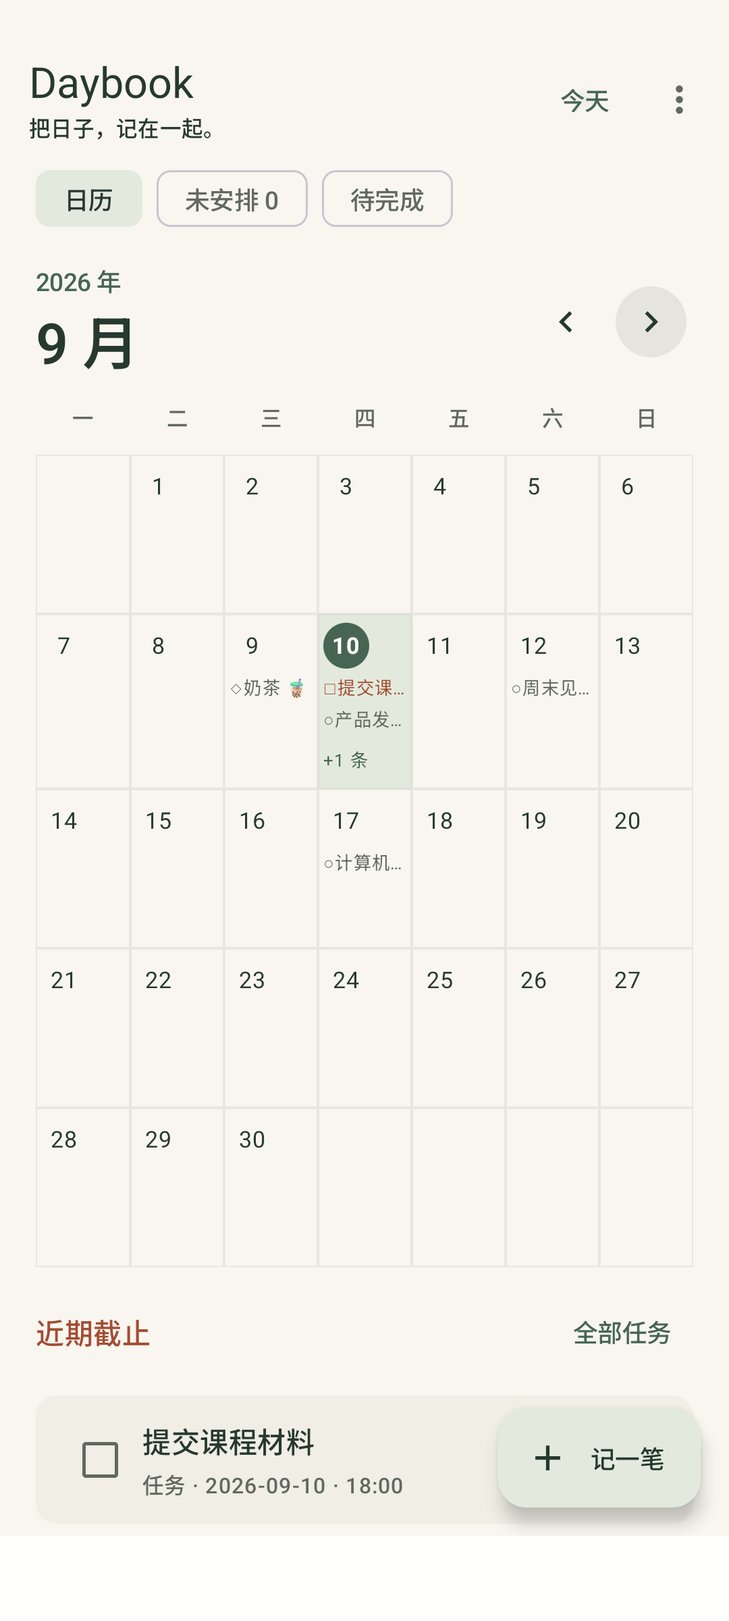
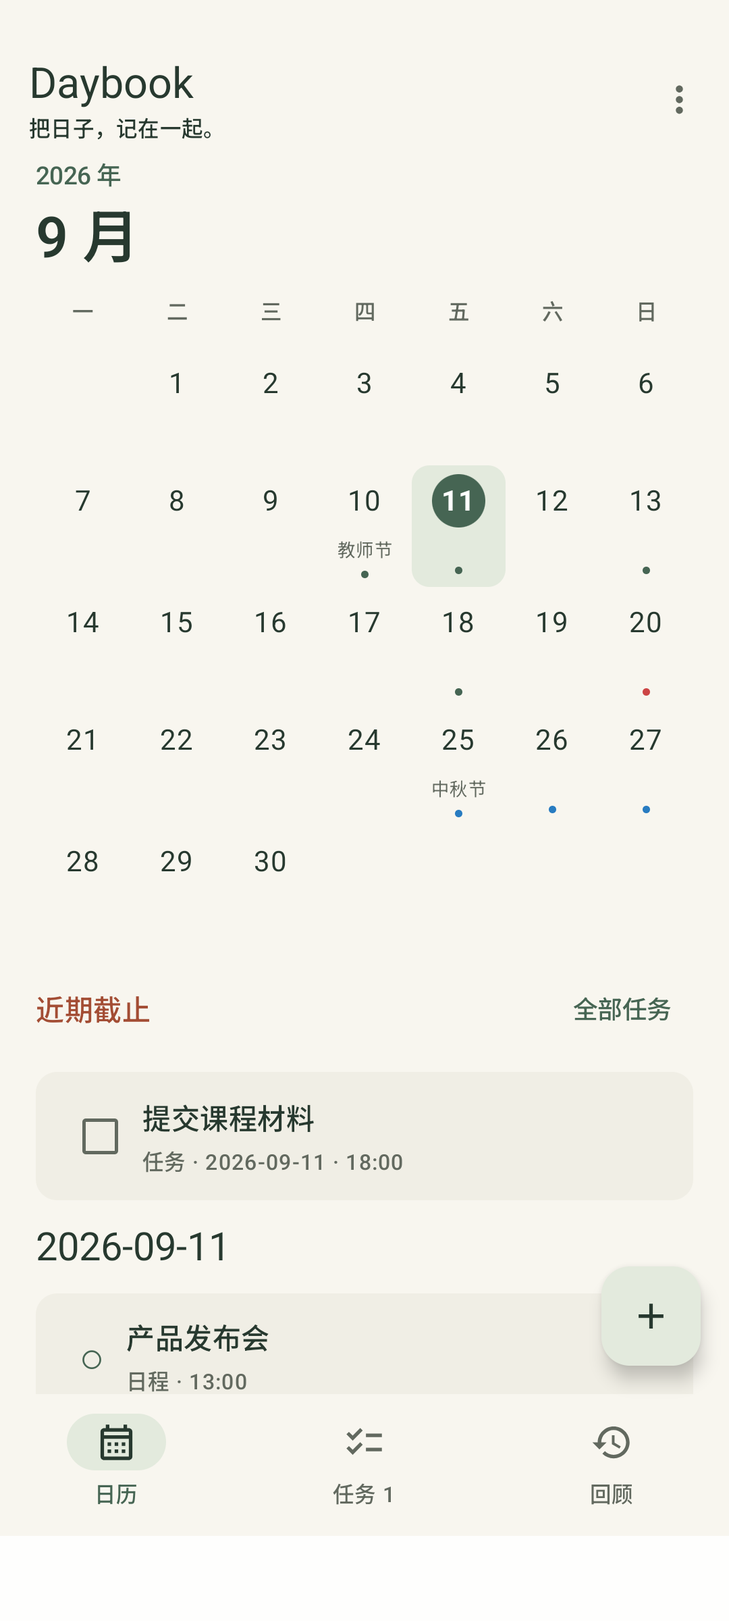
chore: 准备 v0.3.0 交付并更新截图与验收记录
完成真实 v0.2 覆盖升级和 Release 新安装验证，记录已验证的后台通知与顶部悬浮。README 图片与使用说明同步；保留真机声音、振动及静音模式待验证项。

diff --git a/app/src/androidTest/java/dev/lukino/daybook/UpgradeContinuityTest.kt b/app/src/androidTest/java/dev/lukino/daybook/UpgradeContinuityTest.kt
@@ -1,5 +1,8 @@
 package dev.lukino.daybook
 
+import android.app.NotificationManager
+import dev.lukino.daybook.reminder.ReminderCoordinator
+import java.io.File
 import androidx.test.core.app.ApplicationProvider
 import androidx.test.platform.app.InstrumentationRegistry
 import dev.lukino.daybook.data.*
@@ -17,10 +20,32 @@ class UpgradeContinuityTest {
         val fixture = Entry(id = "00000000-0000-0000-0000-000000000101", kind = EntryKind.TASK,
             title = "覆盖安装验收样例", note = "仅测试使用，验证后删除", date = "2099-12-31", time = "18:30",
             completed = true, createdAt = 1000, updatedAt = 2000)
-        if (mode == "seed") app.repository.save(fixture)
-        else {
-            assertEquals(fixture, app.repository.all().single { it.id == fixture.id })
-            app.repository.delete(fixture.id)
+        val args = InstrumentationRegistry.getArguments()
+        val extended = args.getString("daybookUpgradeFields") == "extended"
+        args.getString("expectedVersion")?.let { expected ->
+            assertEquals(expected, app.packageManager.getPackageInfo(app.packageName, 0).versionName)
+        }
+        val samples = if (extended) listOf(fixture.copy(tags = listOf("学习", "验收"),
+            reminderAt = "2099-12-30T09:00", reminderDeliveredFor = "2099-12-30T09:00"),
+            Entry(id = "00000000-0000-0000-0000-000000000102", kind = EntryKind.EVENT,
+                title = "旧版日程验收样例", date = "2099-12-31", tags = listOf("验收"),
+                createdAt = 3000, updatedAt = 4000)) else listOf(fixture)
+        val snapshot = File(app.filesDir, "upgrade-channel-test.txt")
+        fun channelSettings(): String {
+            val channel = app.getSystemService(NotificationManager::class.java).getNotificationChannel(ReminderCoordinator.CHANNEL)
+            return listOf(channel.id, channel.importance, channel.sound, channel.shouldVibrate(),
+                channel.vibrationPattern?.joinToString(",")).joinToString("|")
+        }
+        if (mode == "seed") {
+            samples.forEach { app.repository.save(it) }
+            if (extended) snapshot.writeText(channelSettings())
+        } else {
+            samples.forEach { assertEquals(it, app.repository.all().single { actual -> actual.id == it.id }) }
+            if (extended) {
+                assertEquals(snapshot.readText(), channelSettings())
+                snapshot.delete()
+            }
+            samples.forEach { app.repository.delete(it.id) }
         }
     }
 }

diff --git a/docs/USAGE.md b/docs/USAGE.md
@@ -2,52 +2,54 @@
 
 ## 记一笔
 
-点日历中的日期，再点“记一笔”。默认类型是安排；标题是唯一必填文字，其余按需填写。
+点日历中的日期，再点右下角「+」。默认类型是日程，自动填入选中日期；标题必填，其余按需填写。
 
-- 安排：课程、见面、发布会、游戏更新。日期必填，时间可以未定。
-- 任务：需要交付或完成的事。日期表示截止日，可勾选完成；没有日期时进入“无截止”。
-- 记录：已经发生的生活片段，例如喝奶茶。无需打勾。
+- 日程：课程、见面、发布会、游戏更新。日期必填，时间可以未定。
+- 任务：需要完成的事。日期表示截止日；可点日期旁的叉号清除日期和时间。
+- 记录：已经发生的生活片段，例如喝奶茶。日期必填，无需打勾。
 
-仅设截止日的任务，整天都不算逾期；第二天开始才算。设置具体时间的任务，到该时间后即算逾期。完成后仍保留在原来的日期，可取消完成。
+仅设截止日的任务，当天结束后才算逾期；设置具体时间的任务，到该时间后即算逾期。完成后仍可从日历或回顾找到，并恢复为未完成。
 
-## 查看与修改
+## 日历与任务
 
-月份左右箭头切换月份，“今天”回到当前日期。月历文字过多时显示额外条数，点日期查看完整列表。
+左右滑动日历切换月份，点日期查看当天完整内容。选到其他日期或月份时，右上角出现「今天」，点击返回今天；旁边的小字表示选中日期距今天多少天。
 
-“近期截止”显示逾期和今天起七天内的未完成任务。“待完成”可看全部未完成任务，“无截止”可看无截止日期的任务（包括已完成项），旁边数字是该列表总数。“待完成”旁边数字只统计未完成任务，与日历日期无关。
+日期下的绿点表示有个人事项；蓝点表示放假，红点表示调休上班。节日本日显示名称，选中日期可查看完整说明。官方放假调休数据与清明名称内置 2025/2026 年中国大陆资料，后续随安装包更新；未覆盖年份不推测放假或补班。常用公历、农历节日由日期规则显示。
 
-点记录编辑，保存后更新。删除需确认，删除后底部提示中的“撤销”可短时恢复；提示消失后需依赖此前备份恢复。
+底部固定「日历」「任务」「回顾」。任务旁数字是全部未完成任务数，与选中日期无关；列表上方是有截止日期的任务，下方是无截止日期的任务。「近期截止」显示逾期和今天起七天内的未完成任务。
 
-## 备份与恢复
-
-使用菜单中的导出备份，将 JSON 保存到手机文件夹或自行选择的文件服务。文件包含完整日历内容，请妥善保存。
-
-恢复时先选文件，应用校验后显示记录数量。只有确认替换后才更改当前数据；零条记录的备份也会清空当前列表，因此务必看清预览。
-
-每次替换前会保留最近一份本地快照。“恢复替换前快照”可预览并恢复；恢复快照本身也会保存当时的现有数据，支持退回最近一次替换。该快照仍在本机，不等于外部备份。
-
-卸载会清除本地数据库与快照。升级请直接安装同签名的新 APK，不要先卸载。
-
-## 设置提醒
-
-编辑安排或任务时打开“提醒”，选择提醒日期和时间。提醒与发生/截止时间独立：例如晚上截止的任务可以下午提醒，修改截止时间不会自动移动提醒。没有截止日期的任务也可以设置一个提醒时间。
-
-在编辑页或右上角“提醒设置”中开启通知和准时提醒权限。两者齐全才会调度；没有权限时记录仍会保存，首页会显示尚未启用。默认不开启任何提醒。
-
-点击通知直接打开记录。删除、完成任务、清除或修改提醒后会重新核对调度，旧通知会取消；相同提醒已发出后不重复。重新设置提醒可再次启用。系统重启、更新、时区/时间变化或返回 App 时也会核对。
-
-过去 24 小时内未发出的提醒可能补发，并显示“补发提醒”；更旧的提醒不补发。恢复旧备份后也遵循此规则。手机设置中强行停止 App 后，需重新打开才能恢复调度；品牌省电策略可能影响通知。
+点记录编辑，保存后更新。删除需确认，删除后可在底部提示中短时撤销。
 
 ## 标签与回顾
 
-编辑时输入标签，用逗号分隔，也可以点选已有标签。最多 10 个，每个最多 30 字；自动去掉首尾空格和重复项。
+类型决定记录的行为：日程、任务、记录。标签表示主题，例如恋爱、学习、旅行，可跨类型使用。编辑时用逗号分隔标签，也可以点选已有标签；最多 10 个，每个最多 30 字。
 
-“回顾”默认只看生活记录；可切换“全部类型”。点“恋爱”等标签会列出匹配内容，搜索框同时匹配标题或正文。标签与搜索一起生效，清除筛选可回到完整列表。结果按日期倒序，无日期任务排在最后。
+回顾默认全部类型、全部标签、全时间段。可以选择类型、标签，搜索标题/正文，或设置日期范围；结束日期默认今天，起止两天都计入范围。无日期任务仅在全时间段中出现。
 
-点卡片上的标签可直接打开相关内容。在回顾中新建默认是生活记录，编辑保存后保留当前筛选条件。正文可写 20000 字；目前不支持照片。
+点「筛选」后才显示或更新结果。没有设置条件时，会先询问是否回顾所有内容。修改筛选条件时，原结果保留到下次点击筛选。结果按日期倒序，无日期任务排最后。
 
-## 本阶段限制
+点卡片标签会进入回顾并选中该标签，再点击筛选。回顾中新建默认是记录，编辑后保留筛选条件。正文支持 20000 字，目前没有照片。
 
-没有自动同步，备份恢复是整份替换，不会合并记录。当前不支持重复日程、生日自动循环、照片、自定义背景和自然语言识别。提醒跟随本地钟表时间，跨时区不会保持原时区的绝对时刻。
+## 设置提醒
 
-v0.2.0 可恢复 v0.1.0 的旧备份；新版备份增加标签和提醒字段，不能交给旧版恢复。
+编辑日程或任务时打开「提醒」，选择提醒日期和时间。提醒时间独立设置，修改发生或截止日期不会自动移动提醒；无日期任务也可以设置提醒。
+
+点编辑页的「提醒设置」，或右上角菜单中的同名入口，进入独立设置页。需要同时开启通知与准时提醒。左上角返回编辑页时，未保存的输入会保留。默认不为新记录开启提醒。
+
+新安装默认使用系统通知声、振动和高重要性通知。旧版覆盖升级保留原通知渠道设置：如果振动或声音关闭，请点「声音、振动与悬浮设置」在系统中开启。静音时是否振动、是否悬浮，由系统模式、渠道设置与厂商策略共同决定；App 不绕过静音或勿扰设置。
+
+点击通知可打开对应记录。删除、完成任务、清除或修改提醒后会自动核对调度，旧通知会取消；相同提醒已发出后不重复。系统重启、更新、时区/时间变化及返回 App 时也会自动核对，无需手动重新检查。
+
+过去 24 小时内未发出的提醒可能补发，并注明补发；更旧的不补发。系统强行停止 App 后需重新打开，品牌省电策略也可能影响送达。
+
+## 备份与恢复
+
+通过右上角菜单导出 JSON 到手机文件夹或自行选择的文件服务。备份包含完整记录，请妥善保存。
+
+恢复时先选文件，完整校验后显示数量。确认后保存本地快照，再替换当前全部内容；空备份也会清空列表，不合并记录。菜单中的「恢复替换前快照」可退回最近一次替换前的数据；快照仍在本机，不能代替外部备份。
+
+升级请直接安装同签名的新 APK，不要先卸载。卸载会清除数据库和快照。
+
+## 当前范围
+
+v0.3.0 沿用 v0.2.0 的数据库与 JSON 格式，可恢复 v0.1.0/v0.2.0 备份。没有自动同步、重复日程、生日循环、照片、自定义背景或 AI 录入；图文教程与首次引导留后续。提醒跟随本地钟表时间，跨时区不保持原时区的绝对时刻。

diff --git a/CODEX_HANDOFF.md b/CODEX_HANDOFF.md
@@ -1,15 +1,13 @@
 # Daybook 恢复记录
 
-- 当前目标：实施已确认的 v0.3.0 界面、筛选、节假日及提醒改动，方案见 docs/V0.3-PLAN.md。
-- 授权：用户 2026-09-11 确认节假日 APK 内置、保留现有通知渠道，可以开始。无需重复询问已确认方案。
-- 起点：v0.2.0 已发布，main 最近稳定 bcb27ff；原有两处未提交文件是反馈记录，已合并到当前工作。
-- 当前阶段 A：底部三入口、紧凑日历/左右滑动、任务分区、“日程”名称及叉号清除任务日期、回顾显式筛选已实现并验证。代码提交 3a9281911f4dacebf8496a61bceda1c3264fa471，已推送并核对远程 main。
-- 已验证：30 项 JVM 单测通过；15 项常规仪器用例通过（首轮日历标记定位失败，work/v03-calendar-test.log 复测通过）；3 项条件用例跳过。Debug/Lint 通过，outputs/v03-calendar-draft.png 已目视检查。
-- 阶段 B 已完成：内置官方 2025/2026 调休表、常用公历/农历节日、三色日历标记与日期详情。资料见 docs/HOLIDAY-SOURCES.md。32 项 JVM 单测、3 项针对性模拟器用例、Debug/Lint 通过；B 提交 036408a 已推送核对。
-- 阶段 C 功能已完成：独立提醒页、既有渠道保留、新渠道声音/振动/高重要性、删除冗余与手动按钮，自动核对保留。32 项单测、19 项常规模拟器、拒绝通知专项通过；150% 字体 3 项通过（回顾点击标题定位修正后复测）。
-- 剩余：最终截图、文档、同签名升级、v0.3.0 发布。README/USAGE 已开始同步，尚未提交；版本号仍是 0.2.0。当前日志 work/v03-regression-device.log、work/v03-denied-device.log、work/v03-large-font-device.log 和 work/v03-large-font-retest.log。模拟器已恢复字体 1.0。
-- 数据：数据库与备份结构未改变，EVENT 仅中文显示名变为日程，不改稳定标识。禁止清理用户数据或提交真实记录/签名材料。
-- 重要路径：app/；docs/V0.3-PLAN.md；work/v03-build.log、work/v03-tests.log；既有工具 work/；旧版 APK outputs/daybook-v0.2.0.apk；签名仍在忽略的本地文件。
-- 额度：2026-09-11 恢复时五小时剩余 99%、周剩余 100%，继续正常执行。不重复已通过的 A 验证。
-- 构建环境：JAVA_HOME=$PWD/work/tooling/jdk-21.0.12.1.jdk/Contents/Home；GRADLE_USER_HOME=$PWD/work/gradle-user；ANDROID_USER_HOME=$PWD/work/android-user；ANDROID_HOME=$PWD/work/android-sdk。GitHub 操作可用 python3 work/github_cli.py；签名凭据不得输出。
-- 已知限制：真实手机通知声音/振动/悬浮仍待验证；现有渠道声音振动设置须由用户在系统管理。教程不在本版。
+- 当前目标：用户批准的 v0.3.0 改动已完成工程验收，准备提交版本并发布 GitHub Release。
+- 已完成：A 固定底部导航、紧凑滑动日历、任务分区、日程命名与日期规则、显式回顾筛选（3a92819）；B 内置官方 2025/2026 假期/补班及常用节日（036408a）；C 独立提醒设置页、既有渠道保留、新渠道系统声/振动/高重要性、删除冗余与手动按钮（1382f83）。均已推送 main。
+- 版本：0.3.0 / code 3，Room schema 3 / JSON 3 不变，同签名沿用旧版本。没有数据库破坏性迁移。
+- 已验证：32 项 JVM 单测，19 项常规模拟器用例；权限拒绝、150% 字体、真实 v0.2→v0.3 覆盖升级通过。Debug/Release/Lint 通过。Release 全新安装 UI 与渠道配置通过；后台进程退出后实际通知与顶部悬浮通过，已发送状态核对通过。
+- 失败记录：大字体回顾测试点击合并卡片中心触发了标签，改为点击标题本身后复测通过。详情见 docs/TESTING.md，未将失败或跳过记作通过。
+- 交付物：outputs/daybook-v0.3.0.apk、outputs/SHA256SUMS-v0.3.0.txt；SHA-256 1fdd6fedb3fb99ccb720d3f03eaf3fda94bad763eef8748edab0db050e875fa1。README 三张截图、USAGE、BUILD、TESTING、BACKLOG 和发布说明已同步。
+- 待做：提交交付文件，核对 GitHub CI；创建 v0.3.0 标签、上传 APK 和校验文件，核对远程 digest；最后保存发布结果、停止专用模拟器。
+- 证据：work/v03-reminder-build.log、work/v03-regression-device.log、work/v03-large-font-retest.log、work/v03-release-build.log、work/v03-upgrade.log、work/v03-release-ui.log、work/v03-lifecycle-*.log。截图 docs/screenshots/；实际悬浮 outputs/v03-heads-up.png。
+- 工具：JAVA_HOME=$PWD/work/tooling/jdk-21.0.12.1.jdk/Contents/Home；GRADLE_USER_HOME=$PWD/work/gradle-user；ANDROID_USER_HOME=$PWD/work/android-user；ANDROID_HOME=$PWD/work/android-sdk。GitHub 使用 python3 work/github_cli.py。work/verify_upgrade_v03.py 已完成升级验证，不需重跑。
+- 重要限制：官方调休表和清明仅覆盖 2025/2026；真机声音/振动/静音与厂商省电策略未验证。教程、生日循环、照片、背景和同步留后续，新增宏观方案先请用户确认。
+- 数据安全：签名仍在忽略的本地配置，禁止输出凭据。不要提交真实记录、签名、构建产物；只操作专用模拟器 Daybook_API_35，不清理用户手机数据。

diff --git a/README.md b/README.md
@@ -1,37 +1,40 @@
 # Daybook
 
-一款离线安卓个人日历。像纸质日历一样，统一记录安排、截止任务和生活片段。
+一款离线安卓个人日历。像纸质日历一样，统一记录日程、截止任务和生活片段。
 
 ## 当前功能
 
 - Kotlin / Jetpack Compose / Room，Android 8.0 及以上。
-- 月历与当天列表、三类记录、未安排任务、近期与逾期截止提示。
+- 紧凑月历、左右滑动换月、三类记录、任务分区与数量、近期与逾期截止提示。
 - 不联网，不要求账号；通过系统文件选择器导出和恢复 JSON 备份。
-- 安排/任务可设置独立通知提醒；生活记录支持多标签、回顾与标题/正文搜索。
+- 日程/任务可设置独立通知提醒；标签、类型、时间段与标题/正文组合筛选。
+- 内置 2025/2026 放假调休及常用节日，蓝点放假、红点补班、绿点个人事项。
 - 手机竖屏界面；暂不包含自动同步、AI 录入、重复日程和照片。
 
 ## 安装与上手
 
-[下载 v0.2.0 试用版](https://github.com/lukino0737/daybook/releases/tag/v0.2.0) · [使用说明](docs/USAGE.md) · [构建方法](docs/BUILD.md)
+[下载 v0.3.0 试用版](https://github.com/lukino0737/daybook/releases/tag/v0.3.0) · [使用说明](docs/USAGE.md) · [构建方法](docs/BUILD.md)
 
-将 APK 下载到 Android 8.0+ 手机安装。旧版用户先导出备份，再直接覆盖安装，勿先卸载。首次打开没有预填数据。点日期再点“记一笔”；右上角菜单可以导出或恢复备份。
+将 APK 下载到 Android 8.0+ 手机安装。旧版用户先导出备份，再直接覆盖安装，勿先卸载。首次打开没有预填数据。点日期再点右下角「+」；右上角菜单可以导出或恢复备份。
 
 <img src="docs/screenshots/calendar.png" alt="Daybook 月历，展示虚构测试数据" width="320" />
 
 <img src="docs/screenshots/review.png" alt="Daybook 按标签回顾，展示虚构测试数据" width="320" />
 
-截图中的内容是测试样例，不随安装包提供。
+<img src="docs/screenshots/reminder-settings.png" alt="Daybook 独立提醒设置页" width="320" />
+
+截图中的个人事项是虚构测试样例，不随安装包提供。节假日数据随安装包内置。
 
 ## 验证与维护
 
-第二阶段的自动测试、模拟器检查和升级验证分别记录在 [验收报告](docs/TESTING.md)。提醒需要通知和准时提醒权限；各品牌手机的后台表现仍需真机试用。
+各版本的自动测试、模拟器检查和升级验证分别记录在 [验收报告](docs/TESTING.md)。提醒需要通知和准时提醒权限；各品牌手机的后台表现仍需真机试用。
 
-每个里程碑都有独立提交。开发进度见 [开发日志](docs/DEVELOPMENT.md)，详细证据与限制见 [验收报告](docs/TESTING.md)，范围见 [第一阶段计划](docs/PLAN.md) 和 [第二阶段计划](docs/PHASE2.md)。
+每个里程碑都有独立提交。开发进度见 [开发日志](docs/DEVELOPMENT.md)，详细证据与限制见 [验收报告](docs/TESTING.md)，范围见 [第一阶段计划](docs/PLAN.md) 、[第二阶段计划](docs/PHASE2.md) 和 [v0.3 改进方案](docs/V0.3-PLAN.md)。
 
 这是一个持续维护的 AI 辅助开发项目，可以从 [代码阅读与练习路线](docs/LEARNING.md) 开始。
 
 ## 数据
 
-安排和生活记录不会逾期。任务的日期表示截止日期；没有具体时间时，截止日结束之后才算逾期。无日期任务进入“未安排”。
+日程和生活记录不会逾期。任务的日期表示截止日期；没有具体时间时，截止日结束之后才算逾期。无日期任务位于任务列表下方。
 
 个人数据、备份和签名密钥不进入仓库。卸载应用会清除本地数据，请先导出备份。

diff --git a/docs/TESTING.md b/docs/TESTING.md
@@ -1,3 +1,29 @@
+# v0.3.0 验收记录
+
+日期：2026-09-11。专用 Daybook_API_35 模拟器，Android 15 / API 35 ARM64，1080×2400 / 420 dpi；未连接用户真机。
+
+| 检查 | 结果 |
+| --- | --- |
+| JVM 单测 32 项 | 通过：新增回顾时间范围、相对日期、官方放假区间及节日规则，原日期/备份/提醒测试保持通过 |
+| 常规模拟器回归 | 22 项中 19 项常规用例通过；权限拒绝、系统生命周期、升级 3 项按设计条件跳过，专项另行执行 |
+| 日历与筛选 | 三色标记共存、农历节日和手机时区变化、滑动切月、任务分区与计数、筛选确认/取消/应用通过 |
+| 提醒设置 | 独立页面、左上角返回、页面重建后保留草稿、默认渠道配置和已有渠道保持不变通过 |
+| 通知权限拒绝 | 独立运行通过：记录保留，提醒不被错误标记为已发送 |
+| 150% 字体与软键盘 | 提醒设置/编辑/回顾共 3 项通过；回顾首次补测点击合并卡片的中心落在标签上，改为点击标题后复测通过 |
+| v0.2.0 → v0.3.0 同签名覆盖升级 | 安装真实已发布旧 APK，写入日程和任务；升级前后逐字段比较 UUID、日期时间、完成状态、标签、提醒时间、已发状态、创建修改时间，以及通知渠道配置，通过 |
+| 全新安装 Release | 月历、提醒设置、草稿重建两项 UI 用例通过；系统实际渠道为重要性 4、系统通知声、振动开启；渠道标识不变 |
+| 构建和签名 | Debug/Release 构建与 Lint 通过（0 错误）；签名与旧版一致，Release 启动通过；未增加联网权限 |
+| 后台进程退出后提醒 | 先确认进程已退出、不重开 App，系统实际发送通知；顶部悬浮截图及 SystemUI HeadsUp 状态已确认，重新启动校验已发送状态通过 |
+| 文档截图 | README 月历、回顾、提醒设置均更新且目视检查；只含虚构个人事项 |
+
+过程日志保存在忽略的 work/v03-*.log。数据库 schema 3 与 JSON 格式 3 不变，没有破坏性迁移。
+
+范围与限制：官方放假调休及清明名称覆盖 2025/2026，其他年份不推测放假/补班。农历节日使用 Android ICU。通知配置检查不能代替真实手机声音、振动、悬浮或静音模式验收；当前模拟器关闭宿主音频。旧渠道由用户在系统设置中管理，App 不覆盖用户设置、不绕过勿扰。Android 8 与品牌省电策略未实测。
+
[1 lines of base64/hex data omitted]
+
+---
+
 # v0.2.0 验收记录
 
 日期：2026-09-10。专用 Android 15 / API 35 ARM64 模拟器，1080×2400 / 420 dpi。用户未连接真机；用户已反馈 v0.1.0 实际使用表现良好，但不代表新版提醒已获真机验证。

diff --git a/docs/DEVELOPMENT.md b/docs/DEVELOPMENT.md
@@ -102,3 +102,13 @@
 - 验证：32 项 JVM 单测、Debug 构建与 Lint 通过；完整模拟器回归 22 项中 19 项常规用例通过、3 项条件专项跳过。权限拒绝单独通过。150% 字体补测提醒页/编辑页通过，回顾卡片点击曾落在合并语义节点中心的标签上，改为点击标题本身后复测通过。
 - 已验证设置页返回与页面重建保留草稿、新渠道配置正确、初始化不修改已有渠道。截图目视检查通过。
 - 限制：系统配置验证不等于真机声音/振动/悬浮实测；静音及厂商策略由系统控制。最终同签名升级、截图更新和发布尚待执行。
+
+## v0.3.0 交付验收（2026-09-11）
+
+- 提醒功能提交 1382f83、节假日提交 036408a 均已推送，GitHub CI 通过。
+- versionCode 3 / versionName 0.3.0；同签名真实 v0.2.0 覆盖升级完成，扩展样例验证每个字段、日程类型及既有通知渠道保持不变。
+- Release 全新安装验证默认通知渠道重要性 4、系统声音、振动开启；两项 Release UI 用例通过。确认后台进程退出后，不重开 App，系统实际发出通知并显示顶部悬浮，已核对截图和 SystemUI 状态。
+- README 第一张月历及回顾截图已替换，增加独立提醒页截图；使用、构建、验收文档与后续清单同步。截图仅为虚构样例。
+- Debug/Release 构建、32 项单测、19 项常规模拟器用例、权限拒绝、大字体、覆盖升级通过。真机声音/振动/静音表现仍待用户试用，不能用模拟器配置检查代替。
+- 学习入口：ReminderCoordinator.defaultChannel 说明渠道创建时的默认值；MainActivity.onResume 保留返回前台自动核对；UpgradeContinuityTest 的扩展样例验证“改界面而不丢数据”。
+- APK 已就绪，SHA-256 为 1fdd6fedb3fb99ccb720d3f03eaf3fda94bad763eef8748edab0db050e875fa1。版本附件发布后记录远程结果。

diff --git a/docs/releases/v0.3.0.md b/docs/releases/v0.3.0.md
@@ -1,0 +1,18 @@
+# Daybook v0.3.0
+
+这次更新集中处理日历、回顾和提醒的使用反馈，保留原有纸面风格。
+
+- 底部固定日历、任务、回顾；任务显示未完成数量，并按有无截止日期分区。新增按钮简化为加号。
+- 日历缩小日期格，左右滑动换月；按需显示「今天」与日期差。事项使用小标记。
+- 「安排」更名「日程」；日程和记录必须有日期，任务可用叉号清除日期。
+- 回顾列出全部类型，默认全部类型/标签/时间；支持日期范围，点击筛选才应用，全默认先确认。
+- 内置 2025/2026 中国大陆放假调休及常用节日：蓝点放假、红点补班、绿点个人事项。
+- 提醒设置独立成页，带返回键，删除冗余提示和手动重新检查；保留后台自动核对。
+- 新安装默认系统通知声、振动和高重要性；旧渠道设置保留，请在系统设置中按需开启声音、振动与悬浮。
+- 更新 README 图片及使用说明。
+
+直接覆盖安装即可，勿先卸载。同签名从 v0.2.0 升级已验证，数据库、标签、提醒及通知渠道设置保留；建议更新前导出备份。
+
+32 项 JVM 单测、19 项常规模拟器用例、权限拒绝、大字体及覆盖升级专项通过。实际手机静音、声音、振动和悬浮效果仍需试用；系统与厂商设置决定最终提示方式。
+
+Android 8.0+，完全离线。官方调休表与清明名称仅覆盖 2025/2026，后续随安装包更新。图文教程、照片、生日循环和同步不在本次更新。

diff --git a/docs/BUILD.md b/docs/BUILD.md
@@ -54,3 +54,7 @@ keyPassword=YOUR_LOCAL_PASSWORD
 - 跨版本：先安装真实旧 APK 与对应旧测试 APK 运行 seed；直接覆盖新版 APK，替换测试 APK 后运行新版 verify。不能仅用当前 debug 与当前 release 冒充历史升级验证。
 
 Room 历史 schema 位于 app/schemas；新增结构需提供迁移及历史 schema 测试，禁止破坏性重建。旧 JSON 导入保留稳定 ID，导出统一采用格式 3。
+
+## v0.3 覆盖升级补充
+
+v0.2 → v0.3 可使用新版同签名测试 APK，在真实 v0.2 App 上以 `daybookUpgrade=seed`、`daybookUpgradeFields=extended`、`expectedVersion=0.2.0` 运行 UpgradeContinuityTest；覆盖安装新版后以 `verify` 和 `expectedVersion=0.3.0` 运行。扩展样例额外验证标签、提醒已发送状态、EVENT 日程和原通知渠道配置。历史 v0.1 升级仍使用旧版测试 APK seed，默认基础样例不变。

diff --git a/docs/BACKLOG.md b/docs/BACKLOG.md
@@ -2,9 +2,9 @@
 
 ## 待集中处理的小修改
 
-用户要求：先记录反馈，等待明确指令后再统一修改；此清单不代表已经开始实施。
+用户已于 2026-09-11 确认实施，v0.3 改动见 V0.3-PLAN.md。
 
-- [ ] 2026-09-10：README 第一张图片仍展示第一版 UI，未随当前版本更新；后续替换为当前版本的月历截图。
+- [x] README 第一张图片更新为 v0.3 月历，并同步回顾、提醒设置截图。
 
 ## 后续功能
 
@@ -12,6 +12,7 @@
 
 后续按使用反馈排序：
 
+- 图文教程、首次使用引导和可回看的入口，先确认内容与形式。
 - 每年生日提醒，先明确公历/农历、闰日及单次修改规则。
 - 日记照片及完整媒体备份、清理与恢复。
 - 自定义背景、遮罩及文字可读性。
